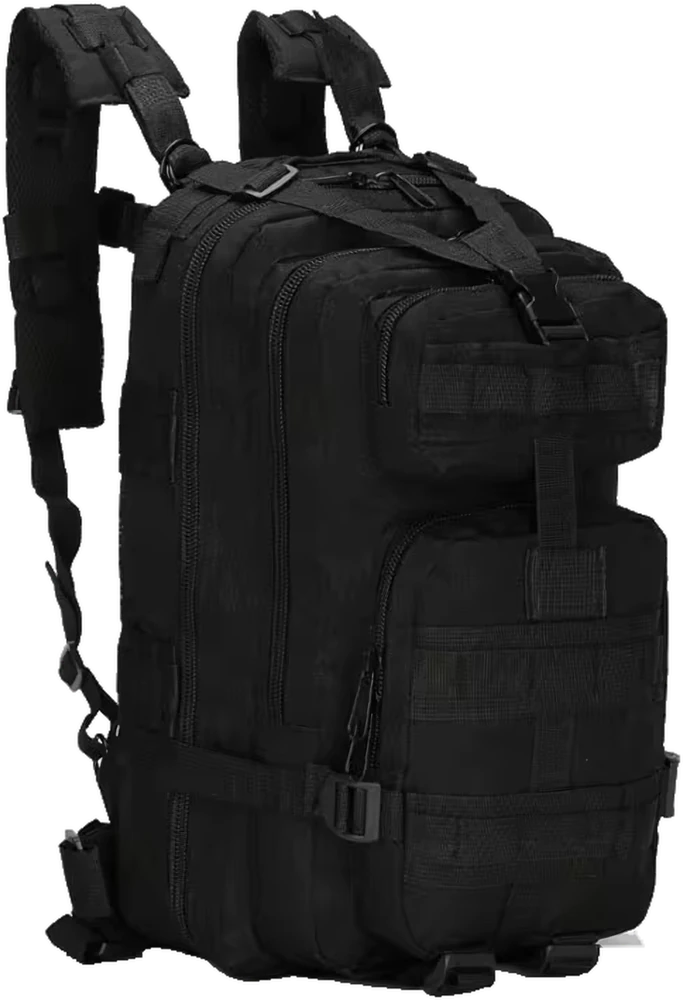
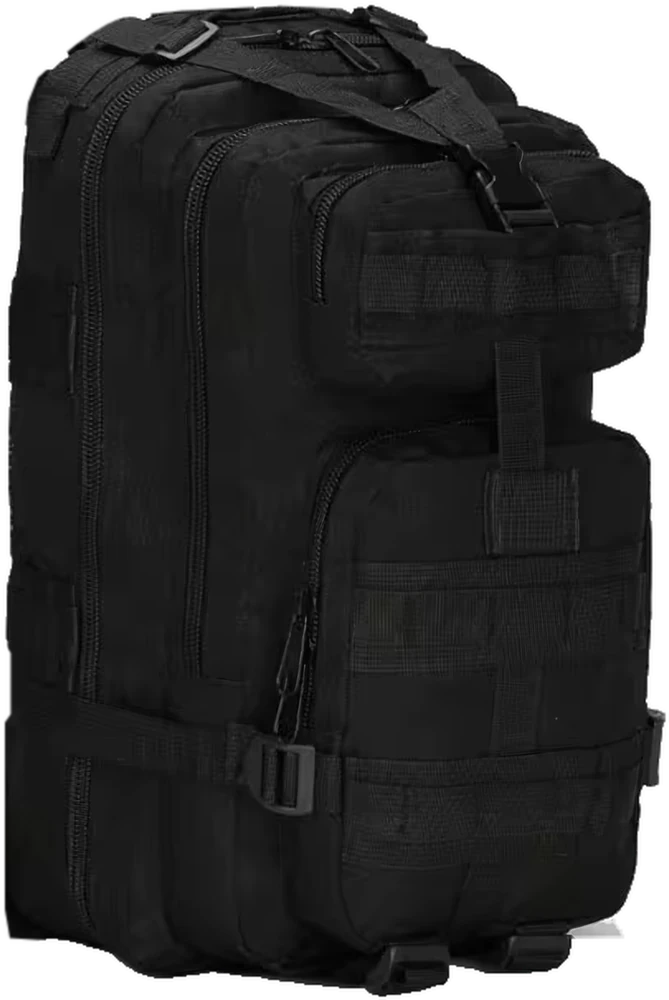
feat(kits): show the Kit 24h's backpack without its shoulder straps
The build script cuts the photo's shoulder straps away: only what is inside
the bag body's outline (body_outline) is kept, softened like the cut-out's
own edges. The photo is now 96 % body instead of 82 %, so the card draws it
at 0.849 of the card width (max 397 px) to keep the 65 L backpack's body
1.3 times the 30 L one's, with both capped from the same card width.

Claude-Session: https://claude.ai/code/session_01Exwv9ehJvLTJipag2ehjdB

diff --git a/src/presentation/components/kits/kitCardPhotos.generated.ts b/src/presentation/components/kits/kitCardPhotos.generated.ts
@@ -4,15 +4,15 @@ import type { KitCardImage } from "./photoRelief";
 export const KIT_CARD_IMAGES = {
   "kit-24h": {
     "src": "/images/kit-cards/kit-24h.webp",
-    "width": 683,
+    "width": 669,
     "height": 1000,
     "relief": {
       "columns": 65,
-      "rows": 95,
-      "axis": 0.5785,
-      "depthMin": -0.23409,
-      "depthStep": 0.0019683,
[1 lines of base64/hex data omitted]
+      "rows": 97,
+      "axis": 0.4963,
+      "depthMin": -0.26204,
+      "depthStep": 0.0022583,
[1 lines of base64/hex data omitted]
     }
   },
   "kit-72h": {

diff --git a/src/presentation/components/kits/kitCardPhotos.ts b/src/presentation/components/kits/kitCardPhotos.ts
@@ -18,11 +18,12 @@ export const KIT_PHOTO_BASE = 148;
  * Kits whose card shows the backpack they come in, keyed by kit slug (the Shopify handle, see
  * docs/SHOPIFY_SETUP.md). Cards are narrower than these photos want to be, so the card width sets their size:
  * the Kit 72h's photo is drawn as wide as 95 % of its card (1.137 × its width tall), and the Kit 24h's so that its
- * 30 L backpack's body is 1/1.3 of the 65 L one's (the cube root of 30/65; the 24h photo also shows its shoulder
- * straps above the bag). `maxHeight` caps them at twice the size first asked for.
+ * 30 L backpack's body is 1/1.3 of the 65 L one's (the cube root of 30/65; the 24h photo shows the bag without its
+ * shoulder straps). `maxHeight` caps both from the same card width on (468 px), where the Kit 72h's is twice the
+ * size first asked for.
  */
 const KIT_CARD_PHOTOS: ReadonlyMap<string, KitCardPhoto> = new Map([
-  ["kit-24h", { image: KIT_CARD_IMAGES["kit-24h"], maxHeight: 464, widthRatio: 0.997 }],
+  ["kit-24h", { image: KIT_CARD_IMAGES["kit-24h"], maxHeight: 397, widthRatio: 0.849 }],
   ["kit-72h", { image: KIT_CARD_IMAGES["kit-72h"], maxHeight: 532, widthRatio: 1.137 }],
 ]);
 

diff --git a/src/presentation/components/kits/KitCard.test.tsx b/src/presentation/components/kits/KitCard.test.tsx
@@ -69,7 +69,7 @@ describe("KitCard", () => {
   it("shows the Kit 24h's own backpack", () => {
     const { container } = render(<KitCard kit={sized(["1 persona"])} index={0} />);
     expect(container.querySelector("[data-media] img")).toHaveAttribute("src", "/images/kit-cards/kit-24h.webp");
-    expect(container.querySelector("article")?.style.getPropertyValue("--kit-photo-max")).toBe("464px");
+    expect(container.querySelector("article")?.style.getPropertyValue("--kit-photo-max")).toBe("397px");
   });
 
   it("keeps the gradient header for kits without a photo", () => {
@@ -118,7 +118,7 @@ describe("KitCardGrid", () => {
     const grid = container.querySelector("ul");
     expect(grid?.parentElement?.className).toBe("@container");
     // the row's room is the tallest photo's, here the Kit 24h's
-    expect(grid?.style.getPropertyValue("--kit-photo-max")).toBe("464px");
+    expect(grid?.style.getPropertyValue("--kit-photo-max")).toBe("397px");
     expect(grid?.className).toMatch(/\bmd:pt-\[/);
     expect(grid?.className).toMatch(/\blg:pt-\[/);
     const [photoCard, plainCard] = Array.from(grid!.querySelectorAll(":scope > li"));

diff --git a/src/presentation/components/kits/kitCardPhotos.test.ts b/src/presentation/components/kits/kitCardPhotos.test.ts
@@ -36,8 +36,10 @@ describe("kitCardPhoto", () => {
     const big = kitCardPhoto("kit-72h")!;
     expect(big.widthRatio).toBeGreaterThan(small.widthRatio);
     expect(big.maxHeight).toBeGreaterThan(small.maxHeight);
-    // the body is 82 % of the 24h photo's height (its straps rise above it) and 93 % of the 72h photo's
-    expect((big.widthRatio * 0.934) / (small.widthRatio * 0.8197)).toBeCloseTo(1.3, 2);
+    // the body is 96 % of the 24h photo's height (shown without its shoulder straps) and 93 % of the 72h photo's
+    expect((big.widthRatio * 0.934) / (small.widthRatio * 0.962)).toBeCloseTo(1.3, 2);
+    // and both reach their cap on the same card width, so the ratio holds on every card
+    expect(big.maxHeight / big.widthRatio).toBeCloseTo(small.maxHeight / small.widthRatio, -1);
   });
 
   it("never draws a photo wider than its card", () => {

diff --git a/scripts/kit-cards/build.py b/scripts/kit-cards/build.py
@@ -16,7 +16,9 @@ rounded rectangle), sized from the photo silhouettes:
 - "one-view" (the Kit 24h's): a single 3/4 product shot on white, cut out here. Its silhouette gives each
   slice's front, with the width and viewing angle assumed.
 
-Straps and buckles outside the body take the depth of the body next to them, a little behind it.
+Straps and buckles outside the body take the depth of the body next to them, a little behind it. A kit can
+leave its shoulder straps out instead (`body_outline`): only the part of its cut-out inside that outline of the
+bag body is kept.
 
 Photos smaller than the cards draw them on high-density screens are enlarged with EDSR super-resolution (OpenCV's
 dnn_superres), which keeps edges such as cords and stitching crisper than an ordinary resize. The models (38 MB
@@ -29,7 +31,7 @@ import urllib.request
 from pathlib import Path
 
 import numpy as np
-from PIL import Image, ImageFilter
+from PIL import Image, ImageDraw, ImageFilter
 from scipy import ndimage
 from scipy.ndimage import gaussian_filter1d, map_coordinates, median_filter
 
@@ -61,8 +63,22 @@ KITS = {
             "shadow_from_row": 718,
             "shadow_threshold": 62,
         },
+        # The bag body without its shoulder straps (x, y in photo pixels, clockwise from its top-left corner).
+        # Where a strap crosses the body's edge, the outline follows the edge the strap hides. Remove it to show
+        # the straps again (then resize the photo in kitCardPhotos.ts: the straps make it taller).
+        "body_outline": [
+            # top: the top panel, just under the straps' loops and buckles
+            (248, 197), (255, 190.5), (263, 183.5), (271, 177), (280, 170.5), (290, 164.5), (299, 160.5),
+            (316, 158.5), (335, 156.5), (375, 154.5), (393, 153.5), (427, 155), (437, 155.5),
+            # right and bottom: past the photo's edges (no straps there), then under the back-left corner
+            (441, 120), (820, 120), (820, 820), (300, 820), (262, 719.5), (231, 717.5),
+            # left: the back-left edge the straps hang beside, skirting a buckle that touches it (rows 540-587)
+            (228, 700), (228, 587), (231.5, 582), (231.5, 545), (228, 540), (228, 345), (229, 332),
+            (230.5, 320), (233.5, 310), (235.5, 298), (236.5, 285), (237, 270), (238, 255), (239, 240),
+            (240, 230), (242, 212),
+        ],
         "exponent": 5.0,
-        # Phones draw it up to about 1000 device pixels tall, past the cut-out's own 709: enlarge it with
+        # Phones draw it up to about 1000 device pixels tall, past the cut-out's own 604: enlarge it with
         # super-resolution, then settle on 1000.
         "super_resolution": 2,
         "height": 1000,
@@ -125,6 +141,16 @@ def cut_out(path, shadow_from_row, shadow_threshold):
     safe = np.maximum(alpha, 0.05)[..., None]
     rgb = np.clip((rgb - (1 - alpha[..., None]) * 255) / safe, 0, 255)
     return np.dstack([rgb / 255, alpha]).astype(np.float32)
+
+
+def outline_coverage(outline, shape, supersample=8):
+    """How much of each pixel (0 to 1) lies inside the polygon `outline` (x, y in pixels), softened like the
+    cut-out's own edges, so an edge cut through a strap looks like the rest of the outline."""
+    height, width = shape
+    mask = Image.new("L", (width * supersample, height * supersample), 0)
+    ImageDraw.Draw(mask).polygon([(x * supersample, y * supersample) for x, y in outline], fill=255)
+    coverage = np.asarray(mask.resize((width, height), Image.BOX)).astype(np.float32) / 255
+    return ndimage.gaussian_filter(coverage, 0.6)
 
 
 def main_run(mask_row):
@@ -327,6 +353,8 @@ def build(slug):
     else:
         cal = kit["calibration"]
         photo = cut_out(source / kit["photo"], cal["shadow_from_row"], cal["shadow_threshold"])
+        if kit.get("body_outline"):
+            photo[..., 3] *= outline_coverage(kit["body_outline"], photo.shape[:2])
         profile = one_view_profile(photo, cal, n)
         view = cal
     depth = full_depth(body_depth(photo.shape[:2], profile, n, view), view["bottom"] - view["top"])

diff --git a/docs/DESIGN_SYSTEM.md b/docs/DESIGN_SYSTEM.md
@@ -14,7 +14,7 @@ The prototype's Catalan/English copy, language switcher, "TODO" placeholders and
 - **The frog mascot is hidden.** It doesn't react to or guide the visitor, so it is decoration only. `isMascotEnabled()` (`presentation/config/mascot.ts`, `MASCOT_ENABLED = false`) gates it in the home hero, the "Por qué prepararse" teaser (a centred text column without it) and the 404 page. Set the flag to `true` to bring it back, ideally once it has a role. `mascot.test.tsx` covers both states.
 - **Mascot and brand art** live in `public/images/brand/` (mark and wordmark, flat and stacked, in cream, navy and orange) and `public/images/mascot/` (`frog.png` and the 8-frame `frog-breathe-strip.png`). Use `brandAssets` (`presentation/config/brand.ts`) for their paths and sizes. The favicon (`app/icon.png`) is the orange mark (`mark-orange.png`, as in the prototype) on a 512px navy-deep rounded square: the mark is about 2.2:1, so on a transparent square it would fill under half of a 16px tab icon.
 - **Product photos** are 900×900, shot on the brand navy, in `public/images/products/<slug>.jpg`. Product media areas are `bg-navy`, so a missing photo still looks intentional. A kit without photos shows its label on a navy gradient (decorative, `aria-hidden`): `KitCard` headers cycle navy, orange and deep navy; `ProductCard` and the kit page use navy. The exceptions are the Kit 24h and Kit 72h cards, whose headers are white with a photo of their backpack (see below).
-- **Kit card photos:** `KitCard` shows `kitCardPhoto(slug)` (`kits/kitCardPhotos.ts`), a cut-out photo of the backpack the kit comes in (a transparent WebP in `public/images/kit-cards/`), on white over a soft `navy-deep` floor shadow, with the kit label chip on top. Its bottom sits 148 px down the 160 px header and it is drawn taller than that, so it sticks out above the card. Its height follows the card width (`cqw`; the card is a size container), so it is as big as fits without growing wider than the card, up to a `maxHeight`; the Kit 72h's 65 L backpack is drawn about 1.3 times as tall as the Kit 24h's 30 L one. Photo cards do not clip (only gradient cards keep `overflow-hidden`), and `KitCardGrid` leaves the room the photos rise into, in CSS. It is decorative (`alt=""`; the card names the kit). `KitPhotoSwing` swings it ±7° round its vertical axis every 12 s with WebGL and a depth relief baked by `scripts/kit-cards/build.py`, so the real photo turns with some volume; reduced motion and browsers without WebGL keep the still photo. To give another kit one, add its photo and calibration to the script, run it, and map the slug, `maxHeight` and `widthRatio` in `kitCardPhotos.ts`.
+- **Kit card photos:** `KitCard` shows `kitCardPhoto(slug)` (`kits/kitCardPhotos.ts`), a cut-out photo of the backpack the kit comes in (a transparent WebP in `public/images/kit-cards/`), on white over a soft `navy-deep` floor shadow, with the kit label chip on top. Its bottom sits 148 px down the 160 px header and it is drawn taller than that, so it sticks out above the card. Its height follows the card width (`cqw`; the card is a size container), so it is as big as fits without growing wider than the card, up to a `maxHeight`; the Kit 72h's 65 L backpack is drawn about 1.3 times as tall as the Kit 24h's 30 L one, which is shown without its shoulder straps (the script keeps only what is inside its `body_outline`). Photo cards do not clip (only gradient cards keep `overflow-hidden`), and `KitCardGrid` leaves the room the photos rise into, in CSS. It is decorative (`alt=""`; the card names the kit). `KitPhotoSwing` swings it ±7° round its vertical axis every 12 s with WebGL and a depth relief baked by `scripts/kit-cards/build.py`, so the real photo turns with some volume; reduced motion and browsers without WebGL keep the still photo. To give another kit one, add its photo and calibration to the script, run it, and map the slug, `maxHeight` and `widthRatio` in `kitCardPhotos.ts`.
 
 ## Tokens (`src/app/globals.css`)
 

diff --git a/CLAUDE.md b/CLAUDE.md
@@ -92,7 +92,7 @@ scripts/kit-cards/  builds the kit card photos and their depth relief (build.py,
   - Motion (`Reveal`, `FrogMascot`, `KitPhotoSwing`, hover lifts) is decorative and stops under `prefers-reduced-motion`.
   - The Kit 24h and Kit 72h cards show the backpack each kit comes in instead of the gradient header, wherever `KitCard` is used (home, `/how-to-choose`): a cut-out photo (`public/images/kit-cards/<slug>.webp`) on white that sticks out above the card and swings slowly, ±7° round its vertical axis every 12 s. `kitCardPhoto(slug)` in `kits/kitCardPhotos.ts` picks the photo and how tall it is drawn: in `cqw` of the card (a size container), so it never grows wider than the card, up to `maxHeight`, with the Kit 72h's 65 L backpack about 1.3 times as tall as the Kit 24h's 30 L one. The Kit Custom keeps the gradient.
     - `KitPhotoSwing` shows the still photo first and, near the viewport, swings the same photo with WebGL 2, or WebGL 1 (`photoReliefRenderer.ts`, no library): a grid over the photo pushed toward or away from the camera by a depth relief (`photoRelief.ts`), so it turns with volume while staying the real photo; at 0° it matches the still photo. It pauses off screen and keeps the still photo under reduced motion, without WebGL or if the photo fails to load.
-    - `scripts/kit-cards/build.py` cuts out the photos (from `scripts/kit-cards/photos/<slug>/`), enlarges a small one with EDSR super-resolution (OpenCV; the model is downloaded to the git-ignored `scripts/kit-cards/.cache/`) and works out the relief from an approximate shape of each bag body; it writes the photos and `kits/kitCardPhotos.generated.ts`. Never edit those by hand; rerun the script.
+    - `scripts/kit-cards/build.py` cuts out the photos (from `scripts/kit-cards/photos/<slug>/`, cutting the Kit 24h's shoulder straps away with `body_outline`), enlarges a small one with EDSR super-resolution (OpenCV; the model is downloaded to the git-ignored `scripts/kit-cards/.cache/`) and works out the relief from an approximate shape of each bag body; it writes the photos and `kits/kitCardPhotos.generated.ts`. Never edit those by hand; rerun the script.
     - Photo cards do not clip (`overflow-hidden` only on gradient cards). `KitCardGrid` (a size container) leaves the room the photos rise into, computed in CSS from the card width (`kitPhotoVars`): above each photo card when the cards stack, above the row in columns, so a photo never covers the heading above or the card above.
   - The frog mascot is **hidden**: it has no interaction with the visitor, so it is decoration only. `isMascotEnabled()` in `presentation/config/mascot.ts` (`MASCOT_ENABLED = false`) is the one switch, like `isMessagingEnabled()`. Its component, sprite, CSS and images stay in the code; gate any new use of `FrogMascot` or `brandAssets.frog` on it.
   - `cn()` does not merge Tailwind classes: never override a primitive's display or colour through `className`. Wrap it instead.
